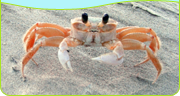
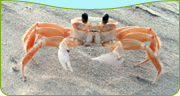
toned down the brightness a bit

Changed region(s): [[0.0, 0.0, 1.0, 1.0]]

diff --git a/style/style.css b/style/style.css
@@ -18,7 +18,7 @@ blockquote {
 }
 body {
     color: #544E41;
-    background-color: #fff;
+    background-color: #FFF7E5;
     font: 10pt Arial, Verdana, sans-serif;
     padding: 0;
     margin: 0;
@@ -133,6 +133,7 @@ td.xar-alt {}
 
 /* right block group classes */
 div.xar-block-right {
+	background-color: #fff;
     padding: 0;
     margin: 0 0 20px 0;
     width: 100%;
@@ -152,7 +153,7 @@ h3.xar-block-title-right {
 div.xar-block-middle-right {
     height: 10px;
     background: #B3F5FA url(/themes/xartropics/images/block-wave.png) 0 0;
-    border: 1px solid #ABE324;
+    border: 1px solid #80AB1B;
     border-width: 0 1px;
     font-size: 0;
 }
@@ -391,7 +392,7 @@ div#contentleft {
 }
 
 div.topblock {
-	background: #A7F3F9 url(/themes/xartropics/images/block-tophead.png) top center no-repeat;
+	background: #A7F3F9 url(/themes/xartropics/images/block-tophead.gif) top center no-repeat;
 	background-repeat: no-repeat;
 }
 div#section_image {
@@ -425,6 +426,12 @@ div#contentmain_core {
 }
 div#contentmain li {
     list-style-image: url(/themes/xartropics/images/list-item.gif);
+}
+div#contentmain li li {
+    list-style-image: url(/themes/xartropics/images/list-item-square.gif);
+}
+div#contentmain li li li {
+    list-style-image: url(/themes/xartropics/images/list-item-disc.gif);
 }
 div#contentmain_core:after {
 	content: '.';
@@ -562,10 +569,19 @@ ul li h4 {
 
 div.byline {
 	color: #80AB1B;
-	margin: 0;
+	margin: 0 0 1em 0;
 	font-size: 10pt;
 }
-
+span.byline-item {
+	width: 10em;
+	display: table-cell;
+	display: inline-block;
+}
+p.summary-notes {
+	border: 1px solid #FFDB54;
+	font-style: italic;
+	padding: .5em 1em;
+}
 h1.overview {
 	margin-top: 0;
 }

diff --git a/style/admin.css b/style/admin.css
@@ -2,9 +2,8 @@
 
 body {
     color: #544E41;
-    background-color: #fff;
     font: 10pt Arial, Verdana, sans-serif;
-    background: #fff url(/themes/xartropics/images/inside/header_bg.png) repeat-x;
+    background: #FFF7E5 url(/themes/xartropics/images/inside/header_bg.png) repeat-x;
     padding: 0;
     margin: 0;
 }

diff --git a/style/inside.css b/style/inside.css
@@ -1,8 +1,7 @@
 body {
     color: #544E41;
-    background-color: #fff;
     font: 10pt Arial, Verdana, sans-serif;
-    background: #fff url(/themes/xartropics/images/inside/header_bg.png) repeat-x;
+    background: #FFF7E5 url(/themes/xartropics/images/inside/header_bg.png) repeat-x;
     padding: 0;
     margin: 0;
 }

diff --git a/style/home.css b/style/home.css
@@ -1,8 +1,7 @@
 body {
     color: #544E41;
-    background-color: #fff;
     font: 10pt Arial, Verdana, sans-serif;
-    background: #fff url(/themes/xartropics/images/home/header_bg.png) repeat-x;
+    background: #FFF7E5 url(/themes/xartropics/images/home/header_bg.png) repeat-x;
     padding: 0;
     margin: 0;
 }
